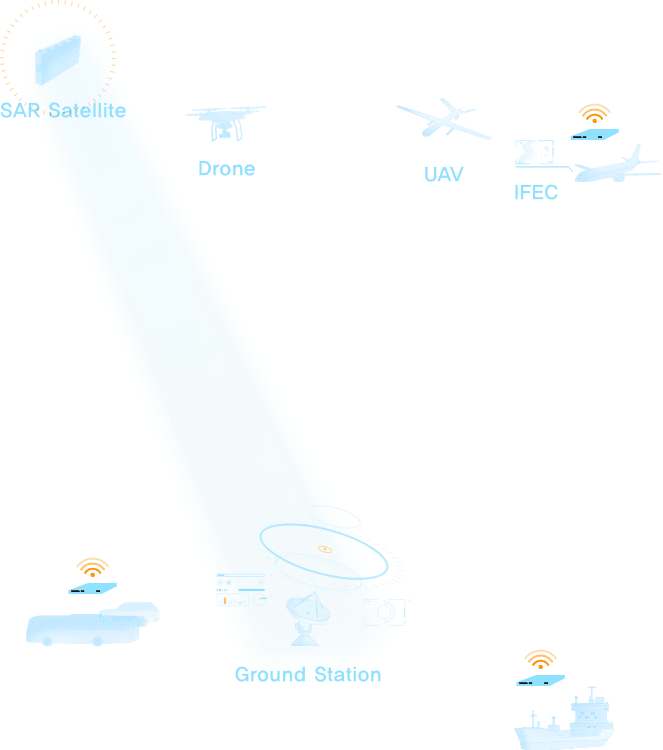
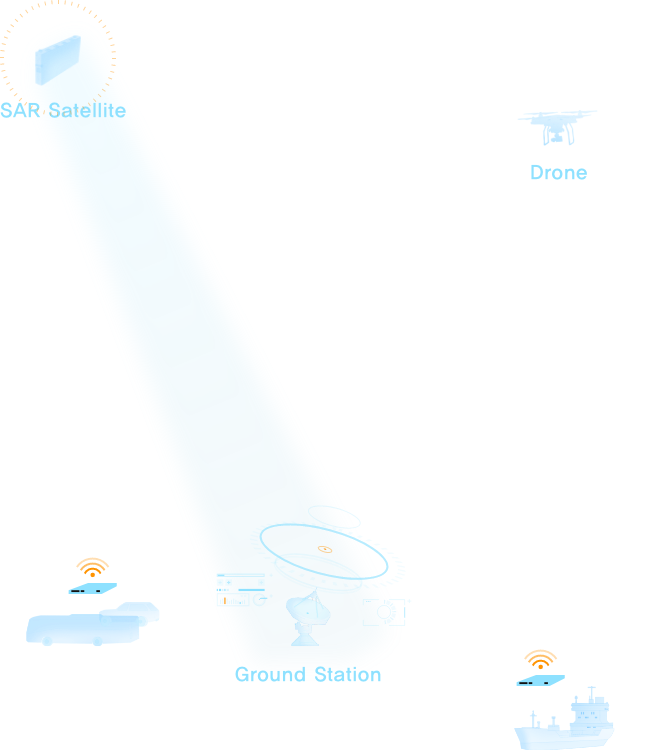
한화 수정사항항

diff --git a/src/js/_satellite.js b/src/js/_satellite.js
@@ -367,6 +367,7 @@ state.on('enter', () => {
         (() => {
           const $communication = $spaceInternet.querySelector('.communication');
           const $textses = $communication.querySelectorAll('.texts');
+          const $textses2 = $communication.querySelector('.texts-2');
           const $earthVisuals = $communication.querySelectorAll('[class*="earth-visual-"]');
           const $satsLeo = $earthVisuals[0].querySelector('.sats-leo');
           const $satsLeoIn = $earthVisuals[0].querySelector('.sats-leo-in');
@@ -439,49 +440,49 @@ state.on('enter', () => {
             const toEarthVis2 = getEarthPositionAndScale($earthVisualAll[5]);
             const leoRotateProgress = { value: 0 };
             
-            // scene1
-            timeline.fromTo( $stars, { scale: 1, y: 0 }, { scale: 0.8, x: -100, duration: 2, ease: 'cubic.inOut' }, 'scene1');
-            timeline.fromTo( 
-              $earth, 
-              getEarthPositionAndScale($earthVisualAll[2]), 
-              { ...toEarthVis0, duration: 2, ease: 'cubic.inOut' }, 
-              'scene1'
-            );
-            timeline.fromTo( $textses[0], { opacity: 0, y: '100%' }, { opacity: 1, y: 0, duration: 1, delay: 1, ease: 'Power1.easeOut', 
-              onUpdate: () => { $earthVisuals[0].classList.contains('on') && $earthVisuals[0].classList.remove('on'); }
-            }, 'scene1');
+            // // scene1
+            // timeline.fromTo( $stars, { scale: 1, y: 0 }, { scale: 0.8, x: -100, duration: 2, ease: 'cubic.inOut' }, 'scene1');
+            // timeline.fromTo( 
+            //   $earth, 
+            //   getEarthPositionAndScale($earthVisualAll[2]), 
+            //   { ...toEarthVis0, duration: 2, ease: 'cubic.inOut' }, 
+            //   'scene1'
+            // );
+            // timeline.fromTo( $textses[0], { opacity: 0, y: '100%' }, { opacity: 1, y: 0, duration: 1, delay: 1, ease: 'Power1.easeOut', 
+            //   onUpdate: () => { $earthVisuals[0].classList.contains('on') && $earthVisuals[0].classList.remove('on'); }
+            // }, 'scene1');
 
-            // scene2 visual 1 등장
-            timeline.fromTo( $earthVisuals[0], { opacity: 0 }, { opacity: 1, duration: 0.5, ease: 'Power1.easeOut',  
-              onUpdate: () => { 
-                !$earthVisuals[0].classList.contains('on') && $earthVisuals[0].classList.add('on');
-                controlVideo($earthVisuals[0].querySelector('video'), 'play');
-              }, 
-            }, 'scene2');
+            // // scene2 visual 1 등장
+            // timeline.fromTo( $earthVisuals[0], { opacity: 0 }, { opacity: 1, duration: 0.5, ease: 'Power1.easeOut',  
+            //   onUpdate: () => { 
+            //     !$earthVisuals[0].classList.contains('on') && $earthVisuals[0].classList.add('on');
+            //     controlVideo($earthVisuals[0].querySelector('video'), 'play');
+            //   }, 
+            // }, 'scene2');
 
-            // scene2-blank
-            timeline.to( $earthVisuals[0], { opacity: 1, duration: 1, 
-              onUpdate: () => { 
-                controlVideo($earthVisuals[0].querySelector('video'), 'play');
+            // // scene2-blank
+            // timeline.to( $earthVisuals[0], { opacity: 1, duration: 1, 
+            //   onUpdate: () => { 
+            //     controlVideo($earthVisuals[0].querySelector('video'), 'play');
 
-                if ( !isTablet ) {
-                  if (lottieInternet1.isPaused || lottieInternet2.isPaused) {
-                    lottieInternet1._resetted = false;
-                    lottieInternet1.play();
+            //     if ( !isTablet ) {
+            //       if (lottieInternet1.isPaused || lottieInternet2.isPaused) {
+            //         lottieInternet1._resetted = false;
+            //         lottieInternet1.play();
   
-                    lottieInternet2._resetted = false;
-                    lottieInternet2.play();
-                  }
-                }
+            //         lottieInternet2._resetted = false;
+            //         lottieInternet2.play();
+            //       }
+            //     }
 
-                $earthVisuals[0].children[2].style = ''; 
-              }
-            }, 'scene2-blank');
+            //     $earthVisuals[0].children[2].style = ''; 
+            //   }
+            // }, 'scene2-blank');
 
             
-            // scene3 earthvis1 -> 2
-            timeline.to( $earthVisuals[0].children[0], { opacity: 0, duration: 1, delay: 0, ease: 'Power1.easeOut' }, 'scene3');
-            timeline.to( $earthVisuals[0].children[2], { opacity: 0, duration: 1, delay: 0, ease: 'Power1.easeOut' }, 'scene3');
+            // // scene3 earthvis1 -> 2
+            // timeline.to( $earthVisuals[0].children[0], { opacity: 0, duration: 1, delay: 0, ease: 'Power1.easeOut' }, 'scene3');
+            // timeline.to( $earthVisuals[0].children[2], { opacity: 0, duration: 1, delay: 0, ease: 'Power1.easeOut' }, 'scene3');
             timeline.fromTo(leoRotateProgress, { value: 0 }, { value: 1, duration: 1, delay: 0, ease: 'Power1.easeOut',
               onUpdate: () => { $satsLeo.style.setProperty('--progress', leoRotateProgress.value) }
             }, 'scene3');
@@ -519,15 +520,17 @@ state.on('enter', () => {
                 $satsLeo.classList.contains('change1') && $satsLeo.classList.remove('change1'); 
               }, 
             }, 'scene3');
-            timeline.to( $earth, { ...toEarthVis1, duration: 1, delay: 0, ease: 'cubic.inOut' }, 'scene3');
-            timeline.to( $textses[0], { opacity: 0, y: -100, duration: 0.5, delay: 0, ease: 'Power1.easeOut' }, 'scene3');
-            timeline.fromTo( $textses[1].querySelector('.subtitle'), { y: 100, opacity: 0 }, { y: 0, opacity: 1, duration: 1, delay: 0.5, ease: 'Power1.easeOut' }, 'scene3');
-            timeline.fromTo( $textses[1].querySelector('.text:nth-child(1)'), { y: 100, opacity: 0 }, { y: 0, opacity: 1, duration: 1, delay: 0.6, ease: 'Power1.easeOut' }, 'scene3');
-            timeline.fromTo( $textses[1].querySelector('.text:nth-child(2)'), { y: 100, opacity: 0 }, { y: 0, opacity: 1, duration: 1, delay: 0.7, ease: 'Power1.easeOut' }, 'scene3');
+            timeline.fromTo( $earth, 
+              getEarthPositionAndScale($earthVisualAll[2]), 
+              { ...toEarthVis1, duration: 1, delay: 0, ease: 'cubic.inOut' }, 'scene3');
+            // timeline.to( $textses[0], { opacity: 0, y: -100, duration: 0.5, delay: 0, ease: 'Power1.easeOut' }, 'scene3');
+            timeline.fromTo( $textses2.querySelector('.subtitle'), { y: 100, opacity: 0 }, { y: 0, opacity: 1, duration: 1, delay: 0.5, ease: 'Power1.easeOut' }, 'scene3');
+            timeline.fromTo( $textses2.querySelector('.text:nth-child(1)'), { y: 100, opacity: 0 }, { y: 0, opacity: 1, duration: 1, delay: 0.6, ease: 'Power1.easeOut' }, 'scene3');
+            timeline.fromTo( $textses2.querySelector('.text:nth-child(2)'), { y: 100, opacity: 0 }, { y: 0, opacity: 1, duration: 1, delay: 0.7, ease: 'Power1.easeOut' }, 'scene3');
             timeline.fromTo( $earthVisuals[1].children[0], { y: 100, opacity: 0 }, { y: 0, opacity: 1, duration: 1, delay: 1, ease: 'Power1.easeOut' }, 'scene3');
 
             // sceen3-blank
-            timeline.fromTo( $textses[1], { opacity: 1, x: 0, y: 0 }, { opacity: 1, duration: 1, 
+            timeline.fromTo( $textses2, { opacity: 1, x: 0, y: 0 }, { opacity: 1, duration: 1, 
               onUpdate: () => { 
                 !$satsLeo.classList.contains('change1') && $satsLeo.classList.add('change1'); 
                 controlVideo($earthVisuals[1].querySelector('video'), 'play'); 

diff --git a/satellite/index.html b/satellite/index.html
@@ -88,13 +88,13 @@
       <article class="communication">
         <div class="sticky">
           <div class="earth-visual-1">
-            <video poster="/resources/images/satellite/space-internet-internet-earth-visual-2-in.webp" loop muted playsinline>
+            <video poster="/resources/images/satellite/space-internet-internet-earth-visual-2-in.webp" loop muted playsinline style="display: none;">
               <source src="/resources/images/satellite/space-internet-internet-earth-visual-2-in.mov" type="video/mp4; codecs=hvc1" />
               <source src="/resources/images/satellite/space-internet-internet-earth-visual-2-in.webm" type="video/webm" />
             </video>
             <div class="sats sats-leo">
               <div class="sats-leo-in">
-                <div class="circle"></div>
+                <div class="circle" style="display: none;"></div>
                 <span class="leo">
                   <span class="internet"></span>
                   <img src="/resources/images/satellite/space-internet-communication-icon-satellite.png" alt="">
@@ -102,7 +102,7 @@
                 </span>
               </div>
             </div>
-            <div class="sats sats-other">
+            <div class="sats sats-other" style="display: none;">
               <span class="antena">
                 <span class="internet"></span>
                 <img src="/resources/images/satellite/space-internet-communication-icon-antena.png" alt="">
@@ -120,7 +120,7 @@
               <source src="/resources/images/satellite/space-internet-communication-beam.webm" type="video/webm" />
             </video>
 					</div>
-          <div class="texts texts-1">
+          <!-- <div class="texts texts-1">
             <div class="titles">
               <span class="eyebrow">뉴 스페이스 시대</span>
               <h6 class="title">전 세계 어디서나 <br>고품질 통신</h6>
@@ -138,7 +138,7 @@
                 전자식 빔 조향 위성안테나를 직접 개발 중입니다.                 
               </p>
             </div>
-          </div>
+          </div> -->
           <div class="texts texts-2">
             <strong class="subtitle">
               혁신적인 <br>
@@ -518,10 +518,10 @@
             </div>
             <div class="service-2">
               <div class="drone"></div>
-              <div class="uav"></div>
+              <!-- <div class="uav"></div>
               <div class="ifec">
                 <span class="internet"></span>
-              </div>
+              </div> -->
             </div>
             <div class="ground">
               <div class="station">

diff --git a/src/scss/_satellite.scss b/src/scss/_satellite.scss
@@ -352,7 +352,7 @@ main.satellite {
 								opacity: 0;
 								transition: width 1s, height 1s, opacity 1s;
 								
-								@include tablet { opacity: 1; }
+								@include tablet { opacity: 0; }
 							}
 						}
 
@@ -1714,7 +1714,7 @@ main.satellite {
 				}
 
         .drone{
-          position: absolute; top: 2%; left: 36.4%;
+          position: absolute; top: 4%; left: 70%;
           width: 5.625%; height: 4.895vw;
           background: url('#{ $image-path }satellite/roadmap-sats-service-drone.png') no-repeat center / contain; 
 
